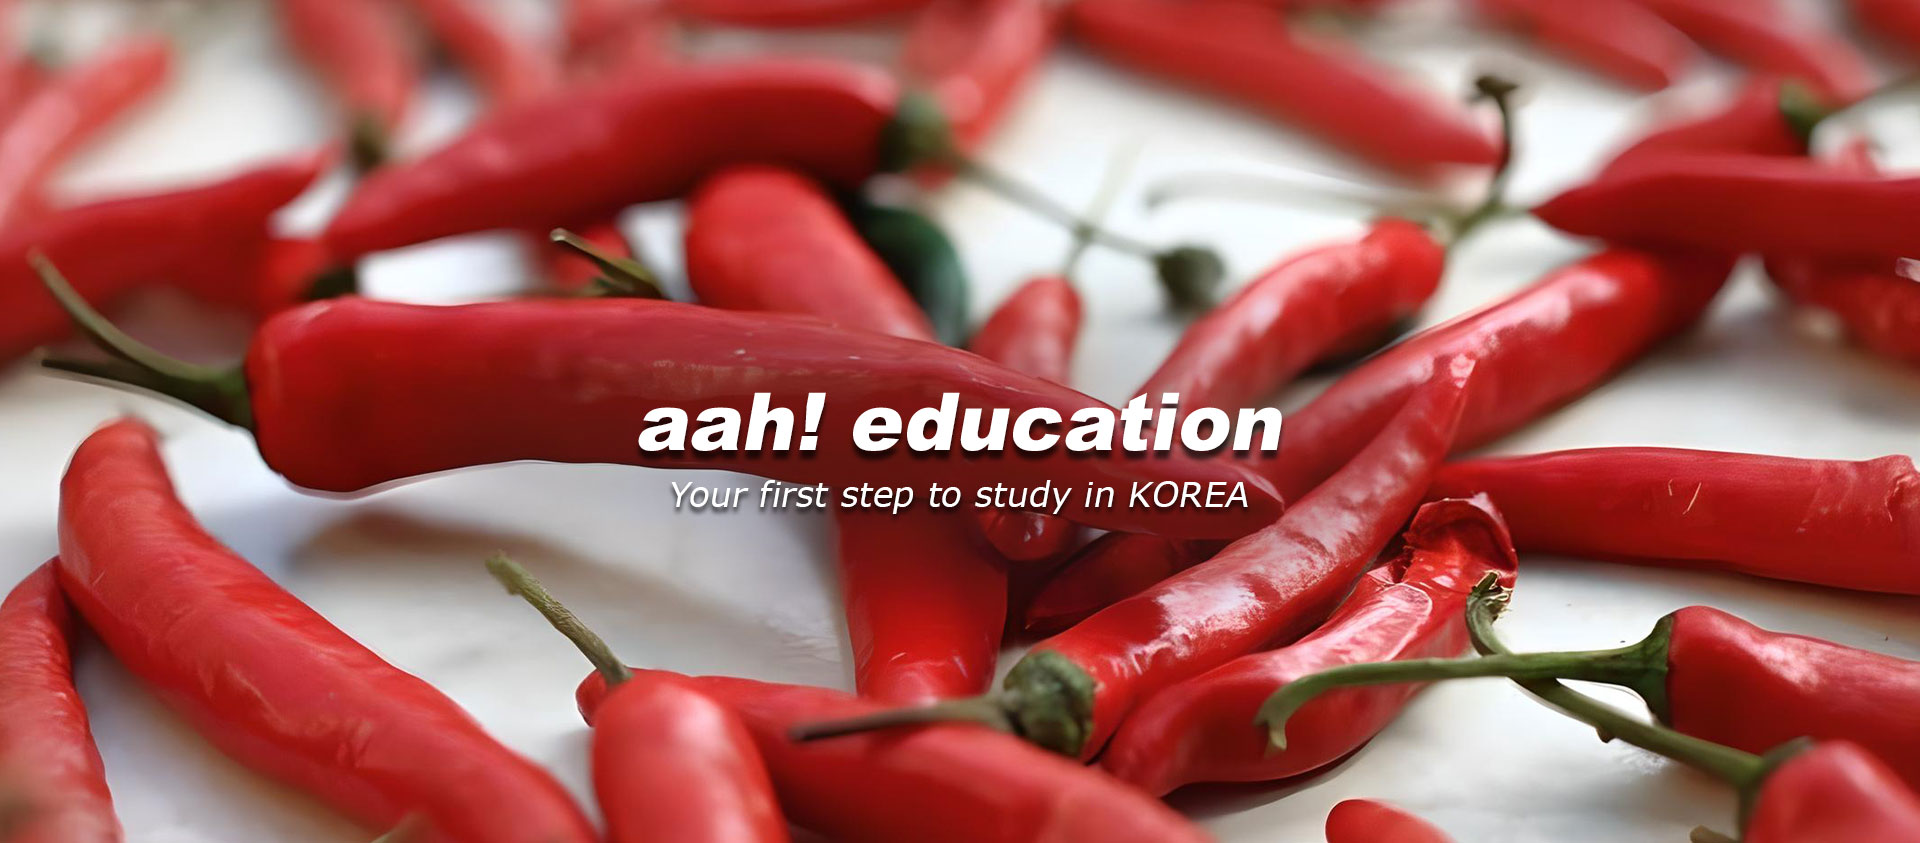
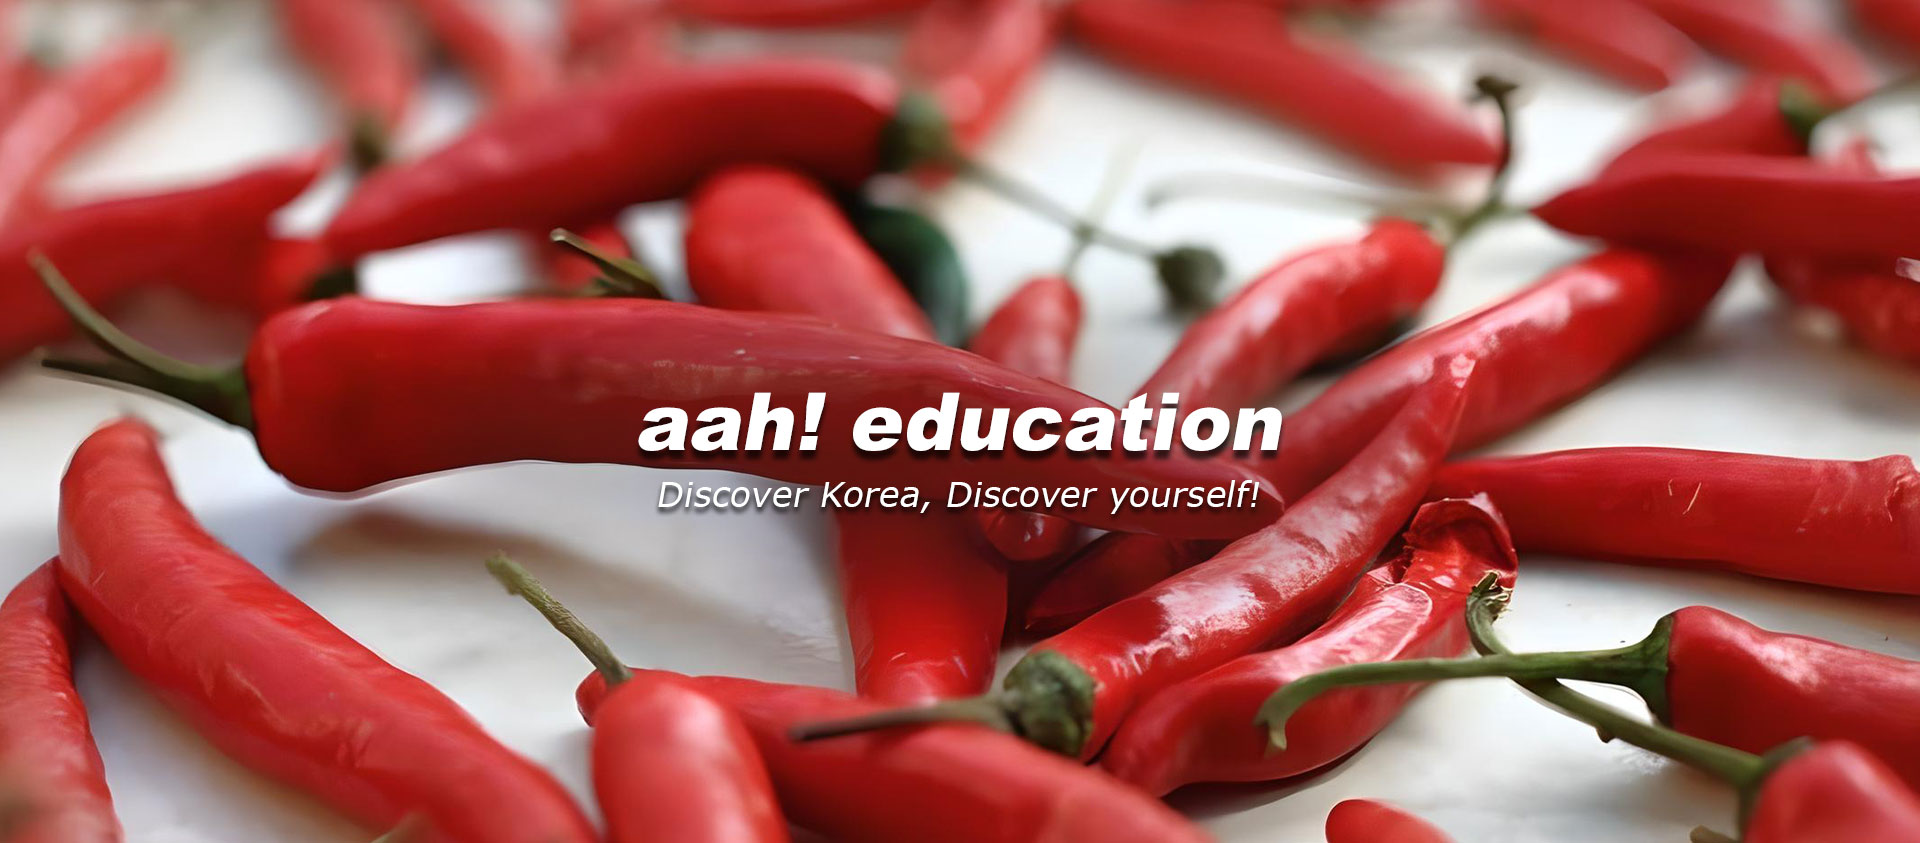
image updated. removed slogans.

Changed region(s): [[0.3438, 0.5552, 0.6562, 0.6168]]

diff --git a/src/components/context/Introduce.tsx b/src/components/context/Introduce.tsx
@@ -21,9 +21,9 @@ export default async function Introduce() {
       <div className="relative bg-gradient-to-b from-[#f3e1eb] to-[#fff] w-full px-6 py-12">
         <div className="max-w-7xl mx-auto">
           <h2 className="text-3xl font-bold text-gray-800 mb-4 text-center">{t('MAIN_SLOGAN')}</h2>
-          <h3 className="text-xl font-bold text-gray-900 mb-3 text-left">
+          {/* <h3 className="text-xl font-bold text-gray-900 mb-3 text-left">
             {t('INTRODUCE_SEO_TITLE')}
-          </h3>
+          </h3> */}
           <div className="text-lg text-gray-800 ">
             {/* body */}
             <p className="mb-5">{t('MAIN_DESCRIPTION')}</p>
